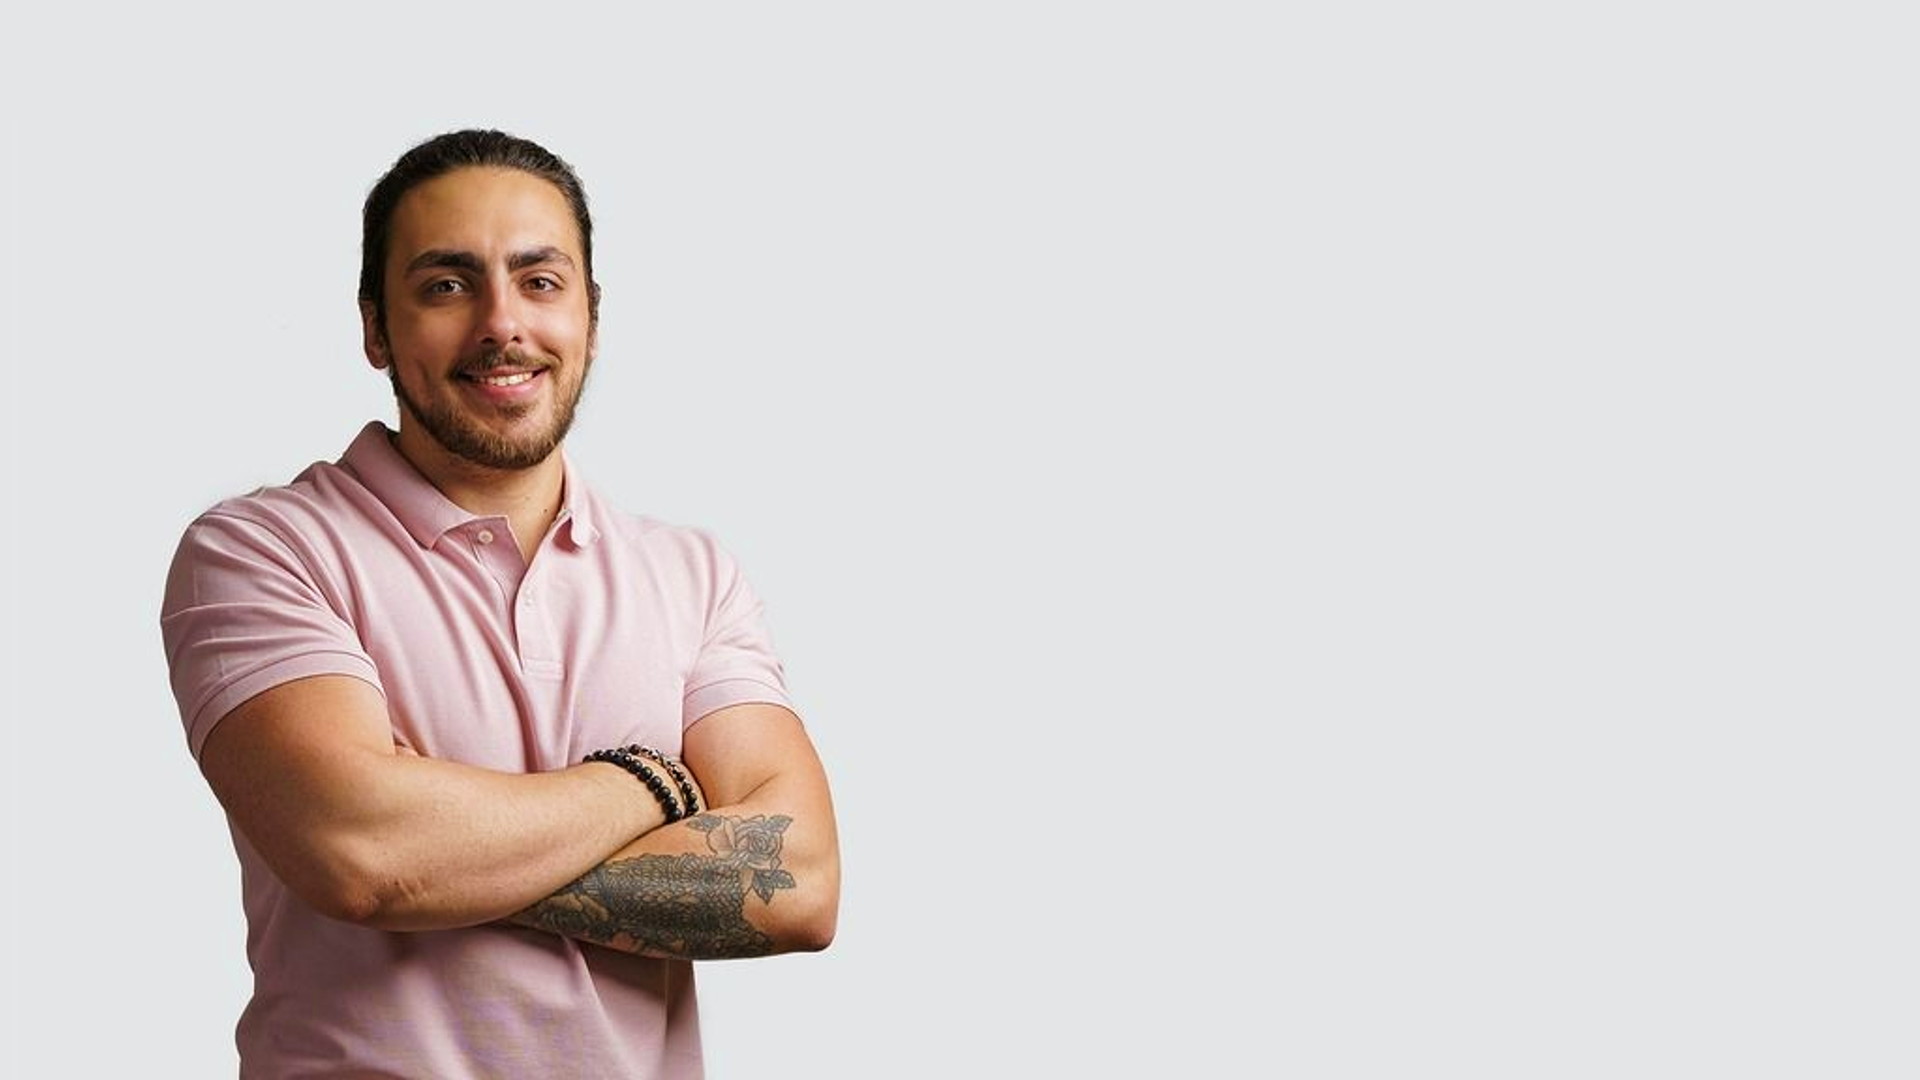
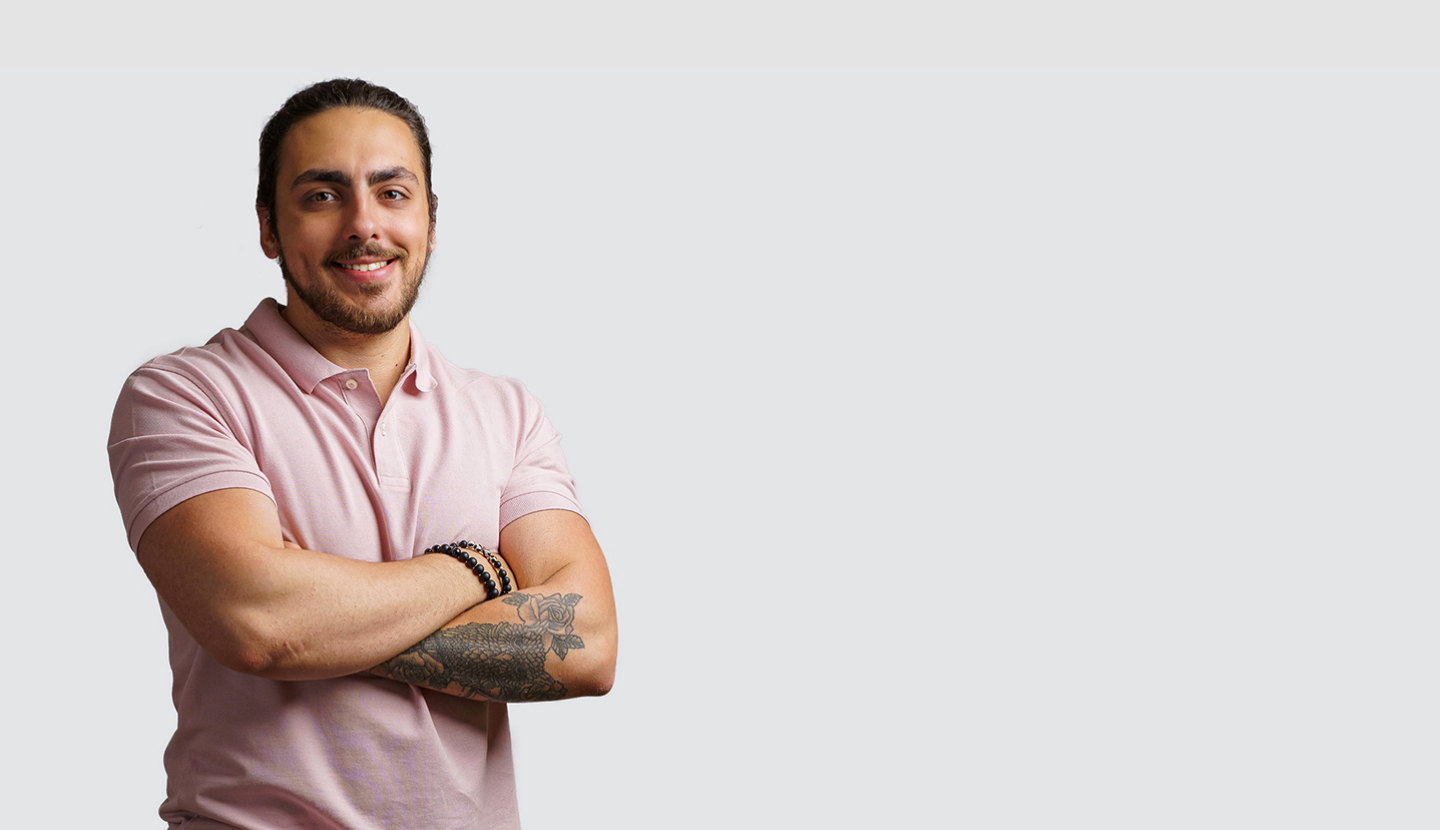
- Completed Desktop Designs for home page - Added About us Button functionality - Added page navigation links - Added Social links - Styled!

Changed region(s): [[0.0625, 0.0904, 0.4375, 1.0]]

diff --git a/components/AboutSection.tsx b/components/AboutSection.tsx
@@ -1,0 +1,157 @@
+"use client";
+
+import Image from "next/image";
+import { useState } from "react";
+import TechIcon from "../public/images/Toggle_Techicon.png";
+import UpdatesIcon from "../public/images/Toggle_Updatesicon.png";
+import MeIcon from "../public/images/Toggle_Meicon.png";
+import FunIcon from "../public/images/Toggle_Funicon.png";
+import FitnessIcon from "../public/images/Toggle_Fitnessicon.png";
+
+type DivPositionType = {
+  top: number;
+  left: number;
+};
+
+export default function AboutSection() {
+  const [activeButton, setActiveButton] = useState(1);
+
+  const handleButtonClick = (buttonIndex: number) => {
+    setActiveButton(buttonIndex);
+
+    const buttonElement = document.getElementById(`button-${buttonIndex}`);
+
+    if (buttonElement) {
+    }
+
+    console.log(activeButton);
+  };
+
+  return (
+    <div id="section-about" className="flex flex-col items-center w-full h-screen bg-custom_dark">
+      <section className="flex justify-center pb-16 pt-28 gap-14 ">
+        <button
+          id="button-1"
+          className={`button ${
+            activeButton !== 1 ? "opacity-60" : "opacity-100"
+          }`}
+          onClick={() => handleButtonClick(1)}
+        >
+          <Image src={MeIcon} alt="Me Icon" />
+        </button>
+        <button
+          id="button-2"
+          className={`button ${
+            activeButton !== 2 ? "opacity-60" : "opacity-100"
+          }`}
+          onClick={() => handleButtonClick(2)}
+        >
+          <Image className="opacity-65" src={TechIcon} alt="Tech Icon" />
+        </button>
+        <button
+          id="button-3"
+          className={`button ${
+            activeButton !== 3 ? "opacity-60" : "opacity-100"
+          }`}
+          onClick={() => handleButtonClick(3)}
+        >
+          <Image src={FitnessIcon} alt="FitnessIcon Icon" />
+        </button>
+        <button
+          id="button-4"
+          className={`button ${
+            activeButton !== 4 ? "opacity-60" : "opacity-100"
+          }`}
+          onClick={() => handleButtonClick(4)}
+        >
+          <Image src={FunIcon} alt="Fun Icon" />
+        </button>
+        <button
+          id="button-5"
+          className={`button ${
+            activeButton !== 5 ? "opacity-60" : "opacity-100"
+          }`}
+          onClick={() => handleButtonClick(5)}
+        >
+          <Image src={UpdatesIcon} alt="Updates Icon" />
+        </button>
+      </section>
+
+      <section className="w-1/2 text-xl leading-10 text-center text-white font-extralight">
+        {activeButton === 1 && (
+          <div className="flex flex-col gap-12">
+            <h1 className="text-5xl">Who am I?</h1>
+
+            <div className="opacity-80">
+              Lorem ipsum dolor sit amet, consectetur adipiscing elit. Aliquam
+              finibus dui eu magna mattis facilisis non sed arcu. In eget neque
+              maximus, fringilla nibh a, blandit augue. Sed non commodo nulla.
+              Aenean vel leo tincidunt, sagittis ex ut, hendrerit dolor. Fusce
+              ligula dolor, lobortis eu erat eget, ultrices rutrum nisl.
+              Phasellus vitae turpis sapien. 
+            </div>
+          </div>
+        )}
+        {activeButton === 2 && (
+          <div className="flex flex-col gap-12">
+            <h1 className="text-5xl">What can I do?</h1>
+
+            <div className="opacity-80">
+              Phasellus fringilla ex nec lorem semper, id mollis turpis rutrum.
+              Phasellus commodo bibendum ultrices. Suspendisse at facilisis sem.
+              Quisque rutrum lorem vitae sem sagittis consequat. Nunc non
+              tincidunt erat, quis malesuada nisi. Nam non convallis mi. Sed id
+              augue tempus erat gravida tempus. Sed mollis laoreet molestie.
+              Lorem ipsum dolor sit amet, consectetur adipiscing elit. In hac
+              habitasse platea dictumst.
+            </div>
+          </div>
+        )}
+        {activeButton === 3 && (
+          <div className="flex flex-col gap-12">
+            <h1 className="text-5xl">My Fitness</h1>
+
+            <div className="opacity-80">
+              In ornare molestie elit vel tempor. Aliquam vitae massa at elit
+              dapibus consectetur. Curabitur purus lorem, tristique sit amet
+              metus ut, maximus maximus turpis. Ut sagittis imperdiet lacus, sed
+              facilisis nulla. Quisque interdum tellus justo. Nulla pellentesque
+              massa a iaculis viverra. Praesent facilisis leo lorem, et
+              vulputate libero sodales id. Proin non malesuada elit.
+            </div>
+          </div>
+        )}
+        {activeButton === 4 && (
+          <div className="flex flex-col gap-12">
+            <h1 className="text-5xl">Fun</h1>
+
+            <div className="opacity-80">
+              Donec quis odio eu diam commodo aliquet quis ornare ligula. In sed
+              pharetra dui. Vestibulum tincidunt ex et augue mattis imperdiet.
+              Nullam ornare, felis eget ultricies elementum, felis lorem
+              placerat enim, at consequat est enim sed lacus. Mauris est tortor,
+              pellentesque et orci a, ultricies accumsan enim. Morbi sit amet
+              posuere velit, eget aliquam erat. Morbi turpis augue, tempus vel
+              ligula ac, pretium lacinia odio. Nam pulvinar tortor mauris, vitae
+              feugiat ipsum rhoncus nec.
+            </div>
+          </div>
+        )}
+        {activeButton === 5 && (
+          <div className="flex flex-col gap-12">
+            <h1 className="text-5xl">Recent Updates</h1>
+
+            <div className="opacity-80">
+              Duis quis facilisis purus. Praesent in magna ligula. Ut egestas
+              nibh massa, in ornare ipsum volutpat eget. In hac habitasse platea
+              dictumst. Suspendisse suscipit libero vitae arcu maximus mollis ac
+              id mi. Quisque hendrerit volutpat lorem, vel dapibus est congue
+              sit amet. Nunc faucibus sodales lorem, in maximus lorem aliquam
+              eu.
+            </div>
+          </div>
+        )}
+      </section>
+    </div>
+  );
+}

diff --git a/pages/index.tsx b/pages/index.tsx
@@ -1,45 +1,16 @@
-import Image from "next/image";
-import { Inter } from "next/font/google";
-import Banner from "../public/images/Me_Banner.png";
-
-const inter = Inter({ subsets: ["latin"] });
+import HeroBanner from "@/components/HeroBanner";
+import Navigation from "@/components/Navigation";
+import AboutSection from "@/components/AboutSection";
 
 export default function Home() {
   return (
     <main>
       <div>
-        <Image
-          src={Banner}
-          alt="BannerImage"
-          className="top-0 left-0 object-cover w-full"
-        ></Image>
-
-        <nav className="absolute top-0 flex justify-between w-full px-24 py-8">
-          <h1 className="text-6xl">
-            <strong>DS</strong>
-          </h1>
-          <ul className="flex flex-row gap-16 py-5 text-xl">
-            <li>
-              <a href="www.youtube.com">About</a>
-            </li>
-            <li>
-              <a href="www.youtube.com">Projects</a>
-            </li>
-            <li>
-              <a href="www.youtube.com">Blog</a>
-            </li>
-            <li>
-              <a href="www.youtube.com">Contact</a>
-            </li>
-          </ul>
-        </nav>
-        
-        <div className="absolute flex flex-col items-end gap-4 top-80 right-52">
-          <h1 className="text-5xl">Hi,<div>  </div> I'm <strong className="text-custom_highlight">Damiano Schirinzi</strong></h1>
-          <h2 className="text-2xl">I am a software developer.</h2>
-          <button className="w-1/3 px-2 py-3 my-2 text-xl text-white rounded-md bg-custom_highlight">See my work</button>
-        </div>
+        <HeroBanner/>
+        <Navigation />
       </div>
+      
+      <AboutSection />
     </main>
   );
 }

diff --git a/components/Footer.tsx b/components/Footer.tsx
@@ -1,0 +1,29 @@
+import Image from "next/image";
+import GitHubLogo from "../public/images/github.png";
+import LinkedInLogo from "../public/images/linkedin.png";
+
+export default function Footer() {
+  return (
+    <div id="section-contact"className="flex flex-col items-center w-full gap-8 py-28 bg-custom_light">
+      <h1 className="text-5xl text-custom_highlight">Get in Touch!</h1>
+      <p className="w-2/5 text-xl text-center">
+        Although I’m not currently looking for any new opportunities, my inbox
+        is always open. Whether you have a question or just want to say hi, I’ll
+        try my best to get back to you!
+      </p>
+
+      <div className="flex flex-row gap-12">
+        <a href="https://github.com/DamianoSchirinzi-Dev">
+          <Image src={GitHubLogo} alt="Github Logo" />
+        </a>
+        <a href="https://www.linkedin.com/in/damiano-schirinzi-b60a53210/">
+          <Image src={LinkedInLogo} alt="LinkedIn Logo" />
+        </a>        
+      </div>
+
+      <button className="px-8 py-4 my-2 mt-4 text-xl text-white rounded-md bg-custom_highlight">
+          Say Hello
+        </button>
+    </div>
+  );
+}

diff --git a/components/Navigation.tsx b/components/Navigation.tsx
@@ -1,0 +1,32 @@
+export default function Navigation(){
+    
+    const scrollTo = (ID : string) => {
+
+        var elementToScrollTo = document.getElementById(`section-${ID}`);
+        if(elementToScrollTo) {
+            elementToScrollTo.scrollIntoView({behavior: "smooth"});
+        }
+    }
+
+    return(
+        <nav className="absolute top-0 flex justify-between w-full px-24 py-8">
+          <h1 className="text-6xl">
+            <strong>DS</strong>
+          </h1>
+          <ul className="flex flex-row gap-16 py-5 text-xl">
+            <li>
+                <button onClick={() => scrollTo("about")}>About</button>
+            </li>
+            <li>
+              <a href="www.youtube.com">Projects</a>
+            </li>
+            <li>
+              <a href="www.youtube.com">Blog</a>
+            </li>
+            <li>
+              <button onClick={() => scrollTo("contact")}>Contact</button>
+            </li>
+          </ul>
+        </nav>
+    )
+}

diff --git a/components/IntroWithCta.tsx b/components/IntroWithCta.tsx
@@ -1,0 +1,14 @@
+export default function IntroWithCta() {
+  return (
+    <div className="absolute flex flex-col items-end gap-4 pr-48">
+      <h1 className="text-5xl">
+        Hi,<div> </div> I'm{" "}
+        <strong className="text-custom_highlight">Damiano Schirinzi</strong>
+      </h1>
+      <h2 className="text-2xl">I am a software developer.</h2>
+      <button className="w-1/3 px-2 py-3 my-2 text-xl text-white rounded-md bg-custom_highlight">
+        See my work
+      </button>
+    </div>
+  );
+}

diff --git a/public/images/index.js b/public/images/index.js
@@ -1,0 +1,15 @@
+import Banner from "../public/images/Me_Banner.png";
+import TechIcon from "../public/images/Toggle_Techicon.png";
+import UpdatesIcon from "../public/images/Toggle_Updatesicon.png";
+import MeIcon from "../public/images/Toggle_Meicon.png";
+import FunIcon from "../public/images/Toggle_Funicon.png";
+import FitnessIcon from "../public/images/Toggle_Fitnessicon.png";
+
+export {
+    Banner,
+    TechIcon,
+    UpdatesIcon,
+    MeIcon,
+    FunIcon,
+    FitnessIcon,
+};

diff --git a/components/HeroBanner.tsx b/components/HeroBanner.tsx
@@ -1,0 +1,16 @@
+import Image from "next/image";
+import Banner from "../public/images/Me_Banner.png";
+import IntroWithCta from "@/components/IntroWithCta";
+
+export default function HeroBanner() {
+  return (
+    <div className="flex flex-col items-end justify-center">
+      <Image
+        src={Banner}
+        alt="BannerImage"
+        className="top-0 left-0 object-cover w-full"
+      ></Image>
+      <IntroWithCta/>
+    </div>
+  );
+}

diff --git a/tailwind.config.js b/tailwind.config.js
@@ -13,10 +13,8 @@ module.exports = {
         custom_dark_2: "#2A2A2A",
         custom_highlight: "#D64933",
       },
-      backgroundImage: {
-        'gradient-radial': 'radial-gradient(var(--tw-gradient-stops))',
-        'gradient-conic':
-          'conic-gradient(from 180deg at 50% 50%, var(--tw-gradient-stops))',
+      fontFamily: {
+        poppins: ["Poppins", "sans-serif"],
       },
     },
   },

diff --git a/pages/_document.tsx b/pages/_document.tsx
@@ -1,11 +1,13 @@
 import { Html, Head, Main, NextScript } from 'next/document'
+import Footer from '../components/Footer'
 
 export default function Document() {
   return (
     <Html lang="en">
       <Head />
-      <body>
+      <body className="font-poppins">
         <Main />
+        <Footer />
         <NextScript />
       </body>
     </Html>
